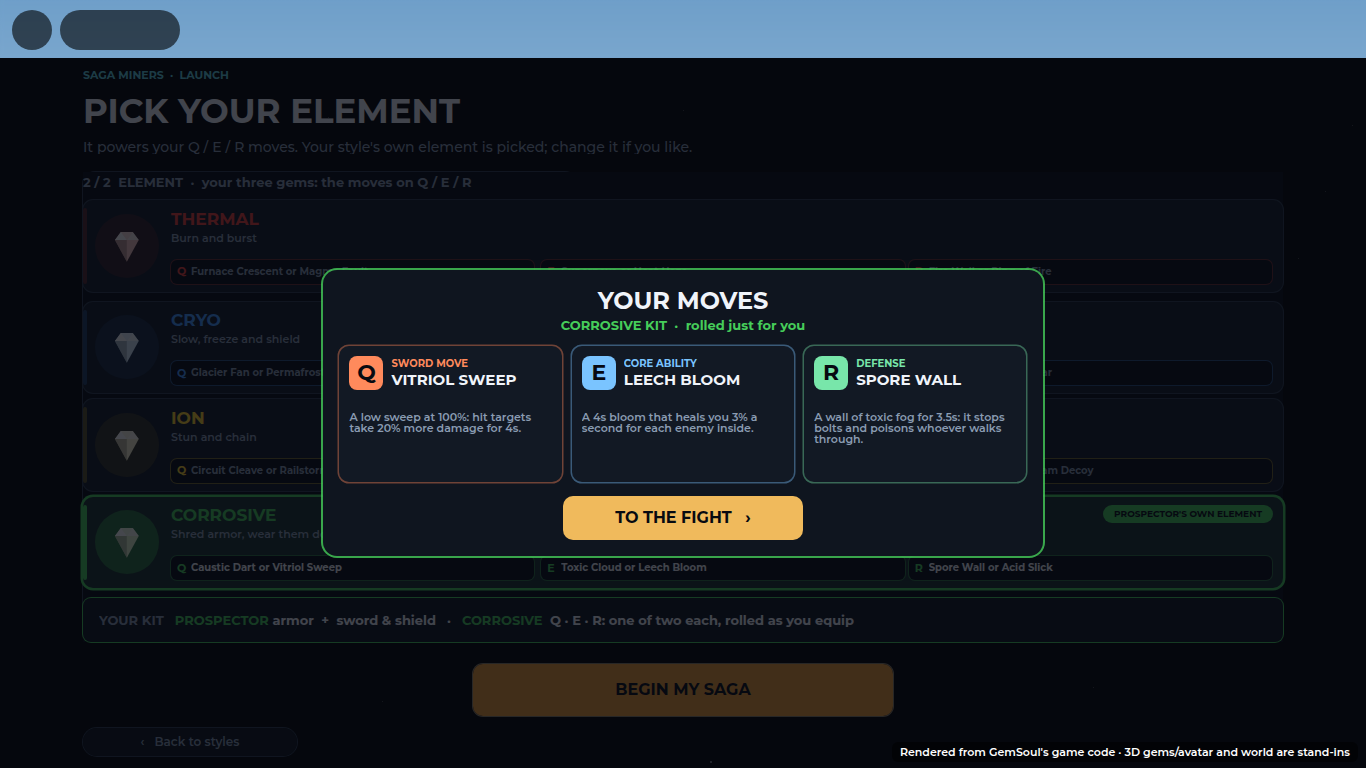
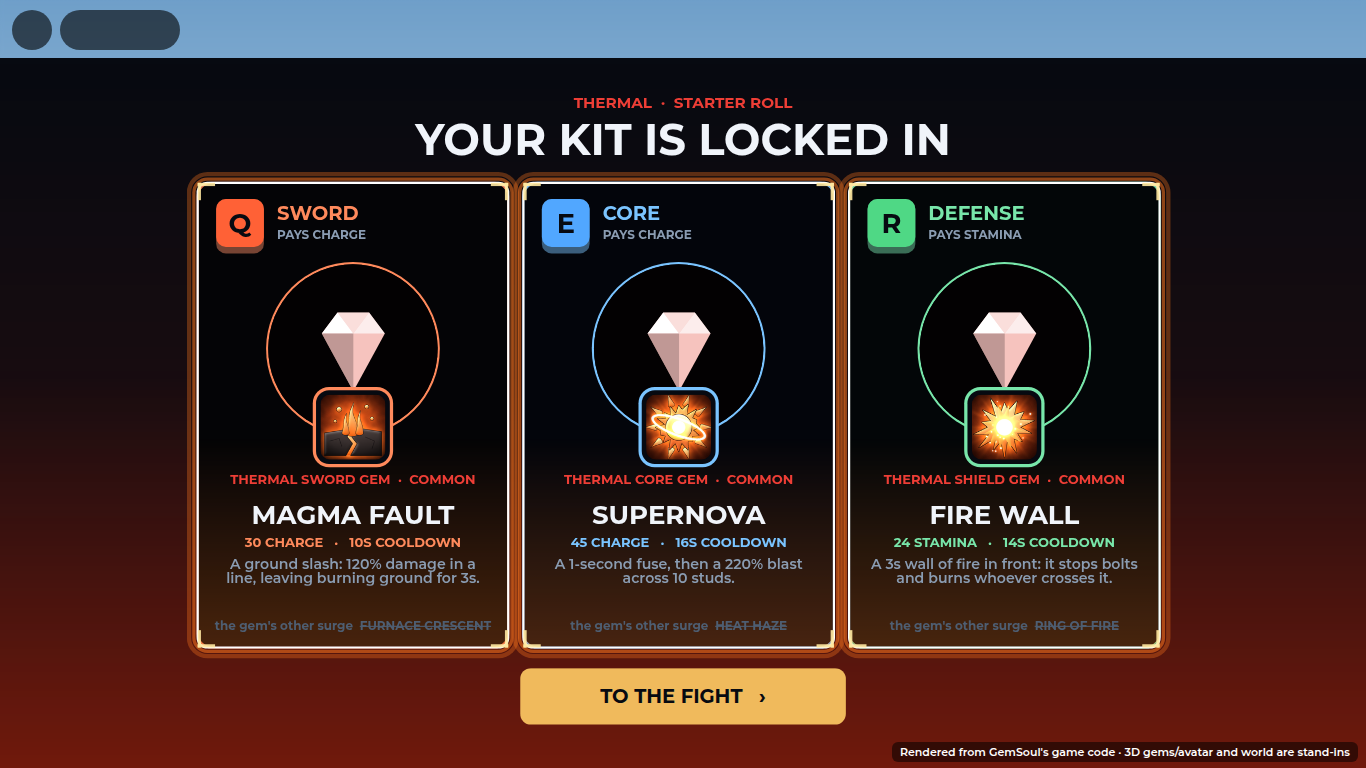
Starter roll: crack each gem open, then reveal its surge
The reveal is now a full-screen roll. Each key is a tall card with a
sealed capsule that shakes while its two possible moves flicker; it
bursts open on the real gem (3D, element and tier), and the move's icon
rises out of the gem and sockets under it with its name, cost and
description. Q, then E, then R; click to skip. The move you didn't get
stays on the card, crossed out. Animated element borders once locked.

The showcase R moves get their own icons (no repeats within a pool), and
Tesla Fence's description matches its lightning look.

Claude-Session: https://claude.ai/code/session_01M9AaiFqQ2dWL5tTu8tuKaL

diff --git a/docs/showcase-kit.md b/docs/showcase-kit.md
@@ -6,7 +6,7 @@ flashy moves; for now, the intro picks them for looks and fun, not for depth.
 R is never a shield. It is a wall, or a move that changes the ground around
 you. Shields still exist as R moves on gems mined later.
 
-| Picker: what each key can roll | Reveal: what you rolled |
+| Picker: what each key can roll | Reveal: each gem cracks open, then gives up its surge |
 | --- | --- |
 | ![Picker](showcase-kit/picker.png) | ![Reveal](showcase-kit/reveal.png) |
 
